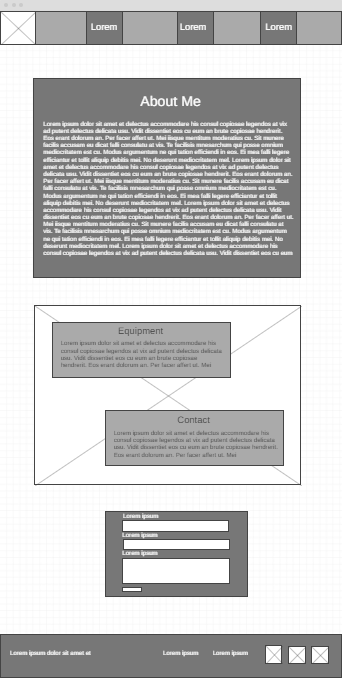
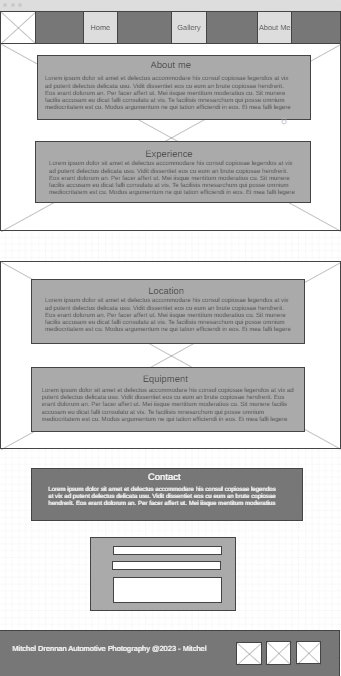
Site plan changes

diff --git a/autofocus/site-plan.html b/autofocus/site-plan.html
@@ -182,9 +182,12 @@
         <br>
         My name is Mitchel Drennan and I am located in the state of Washington. I'm an avid photographer with a relentless passion for capturing the essence of vehicles. Over the past seven years, I have immersed myself in the art of photography, constantly refining my skills and exploring various genres. However, it was automotive photography that truly ignited my creative spark and allowed me to fully express my vision.
         With an unwavering love for anything on wheels, I am dedicated to bringing these magnificent machines to life through my lens. From the sleek lines of exotics to the raw power of muscle cars, I thrive on capturing their unique personalities and showcasing them in all their glory. It's a fulfilling journey that never ceases to amaze me.
+        <br><br>Experience<br>
         Throughout my career, I have had the opportunity to explore different branches of photography, including portraits and nature. These experiences have contributed to my growth as an artist, providing me with a diverse skill set that complements my automotive work. Drawing inspiration from the natural world and the human spirit, I bring a fresh perspective to every shoot.
         I have collaborated with prestigious car clubs, sharing my passion with fellow enthusiasts. Whether it's an exhilarating nighttime shoot, capturing the motion of a moving vehicle, or curating a themed photoshoot to showcase its personality, I'm committed to delivering captivating images that exceed expectations. 
         <br><br>
+        Location
+        <br>
         While I am based in the state of Washington, I am thrilled to offer my services beyond this region. 
         I love exploring new locations, discovering breathtaking scenery, and capturing stunning automotive moments in different settings. Whether you have a scenic spot in mind or a particular event you'd like me to cover, I am available to travel for photoshoots. From coastal drives to scenic mountain roads, I'm willing to go the extra mile to ensure your vision is brought to life.
         Please keep in mind that travel expenses, including transportation and accommodation, may apply for shoots located outside the eastern Washington area. However, rest assured that I will work closely with you to make the process as seamless as possible, ensuring that every detail is taken care of and your experience remains exceptional.
@@ -203,6 +206,7 @@
       </p>
       <p>Images for the Page 3</p>
         <img src="images/subaru1.jpg" alt="image for page3">
+        <img src="images/subaru2.jpg" alt="image for page3">
 
       </ul>
       <hr>
